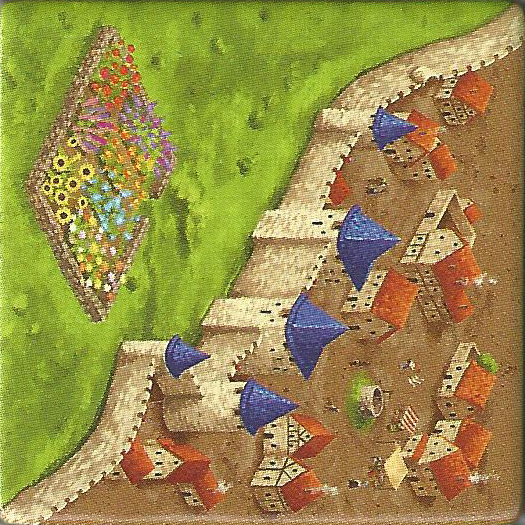
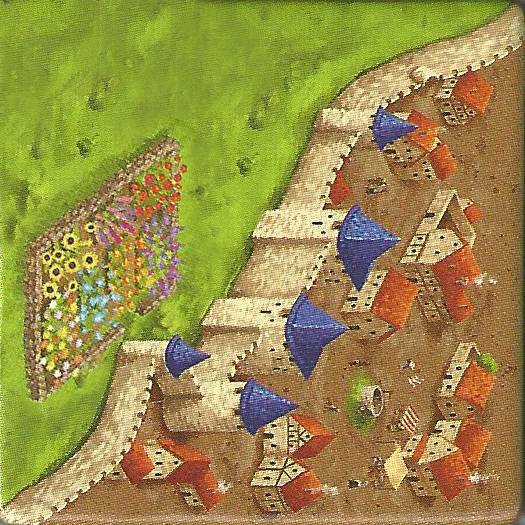
Adjusted images to align gardens

Changed region(s): [[0.0, 0.0, 0.5486, 0.8229]]

diff --git a/src/Objects/PlayableTile.java b/src/Objects/PlayableTile.java
@@ -20,6 +20,7 @@ public class PlayableTile extends AbstractTile {
     private Meeple meeple = null;
 
     public static final int TILE_INNER_MARGIN = 5;
+    public static final int GARDEN_OFFSET = 35;
 
     public PlayableTile() {
         super();
@@ -129,14 +130,30 @@ public class PlayableTile extends AbstractTile {
         GlobalVariables.Feature b = getBottomFeature();
 
         //Edges
-        if (shouldHaveButton(GlobalVariables.Direction.NORTH))
-            this.add(new PlaceMeepleButton(t, null, currentPlayer, GlobalVariables.Location.TOP, half, TILE_INNER_MARGIN)); //Top
-        if (shouldHaveButton(GlobalVariables.Direction.WEST))
-            this.add(new PlaceMeepleButton(l, null, currentPlayer, GlobalVariables.Location.LEFT, TILE_INNER_MARGIN, half)); //Left
-        if (shouldHaveButton(GlobalVariables.Direction.EAST))
-            this.add(new PlaceMeepleButton(r, null, currentPlayer, GlobalVariables.Location.RIGHT, far, half));//Right
-        if (shouldHaveButton(GlobalVariables.Direction.SOUTH))
-            this.add(new PlaceMeepleButton(b, null, currentPlayer, GlobalVariables.Location.BOTTOM, half, far));//Bottom
+        if (shouldHaveButton(GlobalVariables.Direction.NORTH)) { //Top
+            if(this.getInternals().contains(GlobalVariables.Internal.GARDEN) && rotation == 1)
+                this.add(new PlaceMeepleButton(t, null, currentPlayer, GlobalVariables.Location.TOP, half, TILE_INNER_MARGIN));
+            else
+                this.add(new PlaceMeepleButton(t, null, currentPlayer, GlobalVariables.Location.TOP, half, TILE_INNER_MARGIN));
+        }
+        if (shouldHaveButton(GlobalVariables.Direction.WEST)) { //Left
+            if(this.getInternals().contains(GlobalVariables.Internal.GARDEN) && rotation == 0)
+                this.add(new PlaceMeepleButton(l, null, currentPlayer, GlobalVariables.Location.LEFT, TILE_INNER_MARGIN, half - GARDEN_OFFSET));
+            else
+                this.add(new PlaceMeepleButton(l, null, currentPlayer, GlobalVariables.Location.LEFT, TILE_INNER_MARGIN, half));
+        }
+        if (shouldHaveButton(GlobalVariables.Direction.EAST)) { //Right
+            if(this.getInternals().contains(GlobalVariables.Internal.GARDEN) && rotation == 2)
+                this.add(new PlaceMeepleButton(r, null, currentPlayer, GlobalVariables.Location.RIGHT, far, half));
+            else
+                this.add(new PlaceMeepleButton(r, null, currentPlayer, GlobalVariables.Location.RIGHT, far, half));
+        }
+        if (shouldHaveButton(GlobalVariables.Direction.SOUTH)) { //Bottom
+            if(this.getInternals().contains(GlobalVariables.Internal.GARDEN) && rotation == 3)
+                this.add(new PlaceMeepleButton(b, null, currentPlayer, GlobalVariables.Location.BOTTOM, half, far));
+            else
+                this.add(new PlaceMeepleButton(r, null, currentPlayer, GlobalVariables.Location.RIGHT, far, half));
+        }
 
         //Corners
         if ((t == GlobalVariables.Feature.ROAD || t == GlobalVariables.Feature.RIVER) && (l == GlobalVariables.Feature.ROAD || l == GlobalVariables.Feature.RIVER) && !findFarmer(new HashSet<AbstractTile>(), GlobalVariables.Location.TOPLEFT))

diff --git a/src/UIComponents/PlaceAbbotButton.java b/src/UIComponents/PlaceAbbotButton.java
@@ -33,7 +33,7 @@ public class PlaceAbbotButton extends PlaceMeepleButton {
         int margin = 15;
         int half = AbstractTile.TILE_PIXEL_SIZE / 2 - BUTTON_SIZE / 2;
         if(tileRotation == 0) {
-            this.setBounds(margin * 2, half, BUTTON_SIZE, BUTTON_SIZE);
+            this.setBounds(margin, half, BUTTON_SIZE, BUTTON_SIZE);
         }
         else if(tileRotation == 1) {
             this.setBounds(half - margin, margin * 2, BUTTON_SIZE, BUTTON_SIZE);
